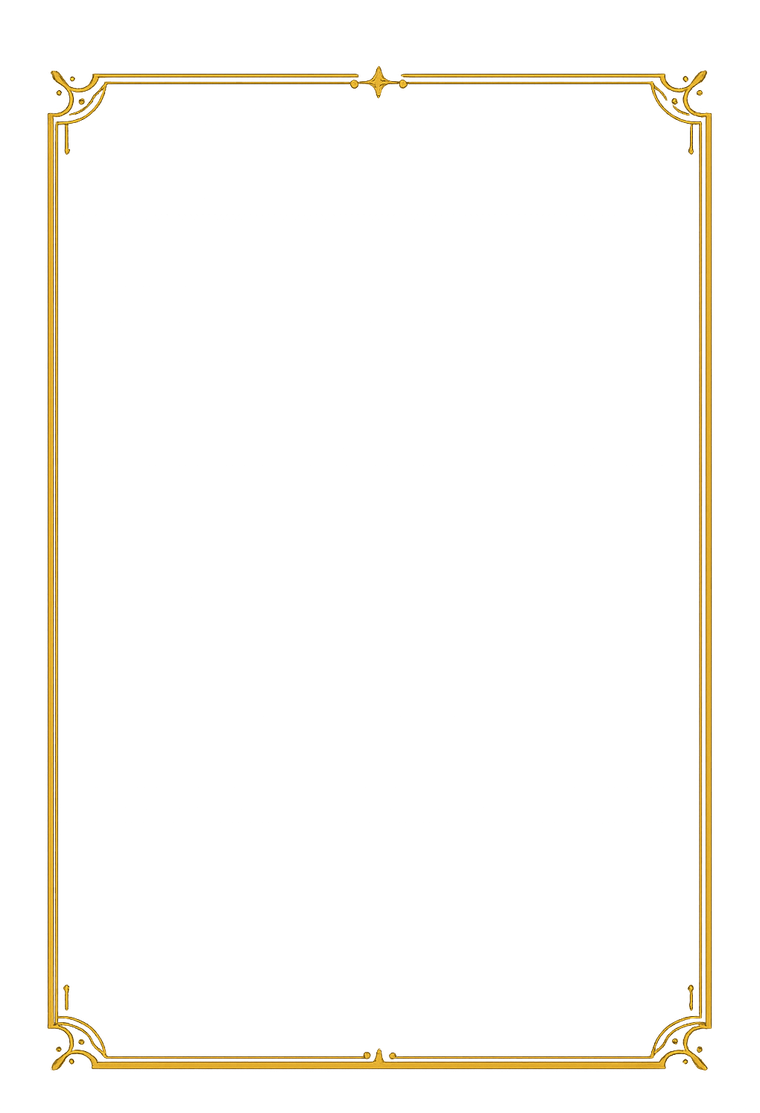
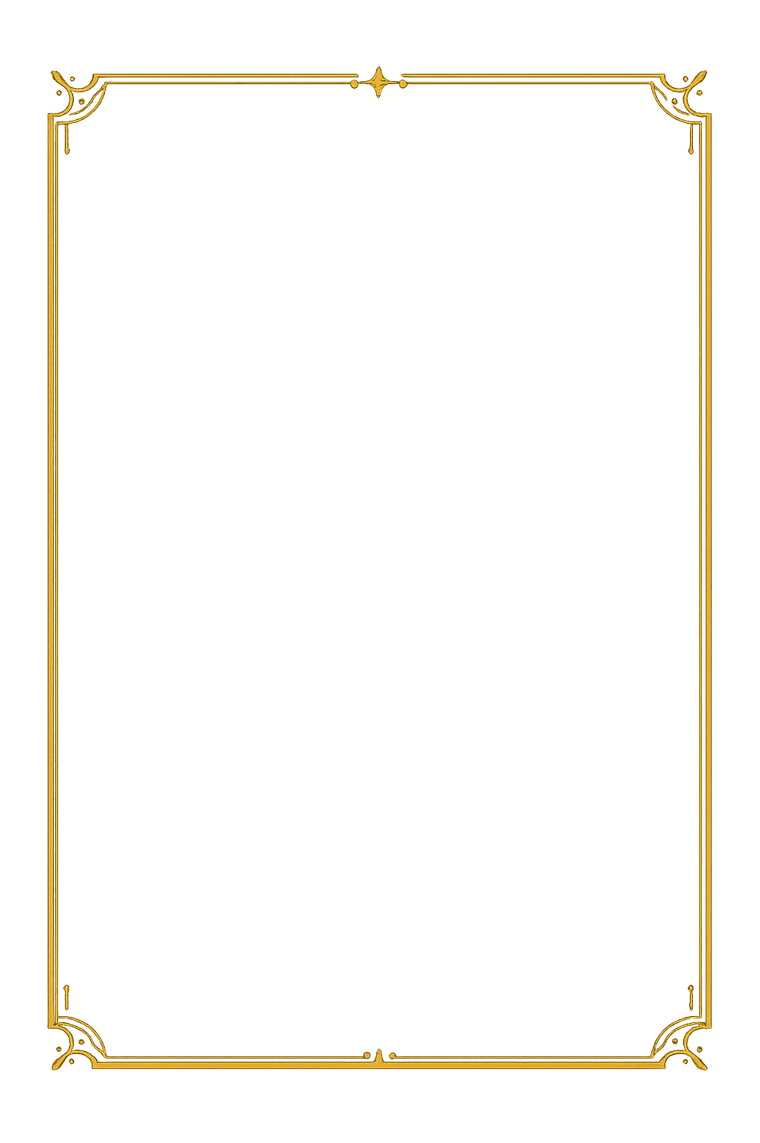
登入頁：金框上下置中、錯誤訊息不再壓線；manifest 殼色對齊羊皮紙
- auth-frame.png 底部補 30px 透明（上下菱星凸出量不同，框線原本離上 74px/離下 44px → 現在 74/74）
- auth-box 下 padding 40px → 72px，紅色錯誤訊息落在金框底線上方
- manifest background_color #EFE2C4 → #2F2114、theme_color #8a2d2d → #5a4c38：
  iOS 重新加入主畫面時重讀的殼色全部對齊登入頁色調（底部深棕條的來源候選）
- 版本 v3.0

Changed region(s): [[0.0605, 0.8553, 0.9382, 0.9775], [0.0605, 0.0611, 0.9382, 0.1222]]

diff --git a/app.js b/app.js
@@ -26,7 +26,7 @@
 const API = 'https://prophet-daily.onrender.com';
 
 // ── Font toggle ───────────────────────────────────────────────
-const APP_VERSION = 'v2.99';   // MUST match service-worker CACHE_NAME (self-heal compares them). Bump as v1.13, v1.14…
+const APP_VERSION = 'v3.0';   // MUST match service-worker CACHE_NAME (self-heal compares them). Bump as v1.13, v1.14…
 let magicFont = localStorage.getItem('pd_magic_font') !== 'off';
 
 const MAGIC_FONT_CSS = `

diff --git a/service-worker.js b/service-worker.js
@@ -1,4 +1,4 @@
-const CACHE_NAME = 'prophet-daily-v2.99';
+const CACHE_NAME = 'prophet-daily-v3.0';
 const ASSETS = [
   './index.html',
   './styles.css',

diff --git a/styles.css b/styles.css
@@ -138,7 +138,7 @@
       flex-direction: column; gap: 0;
     }
     .auth-box {
-      width: calc(100% - 32px); max-width: 400px; padding: 40px 48px;
+      width: calc(100% - 32px); max-width: 400px; padding: 40px 48px 72px;   /* 下 72px：錯誤訊息落在金框底線(約 47px)上方 */
       background: rgba(47,33,20,0.82);
       border-radius: 6px;
       position: relative;